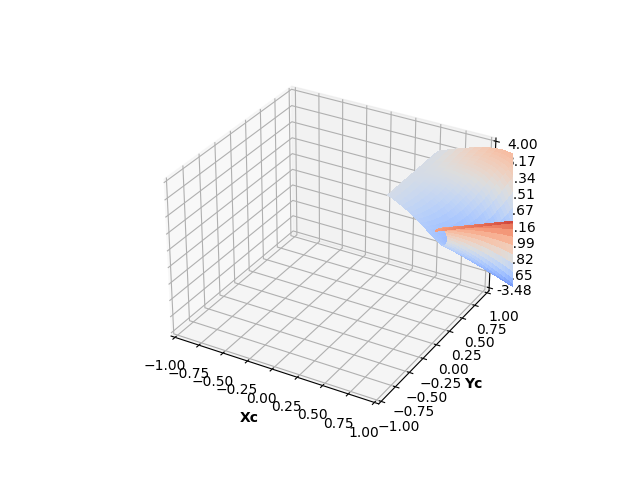
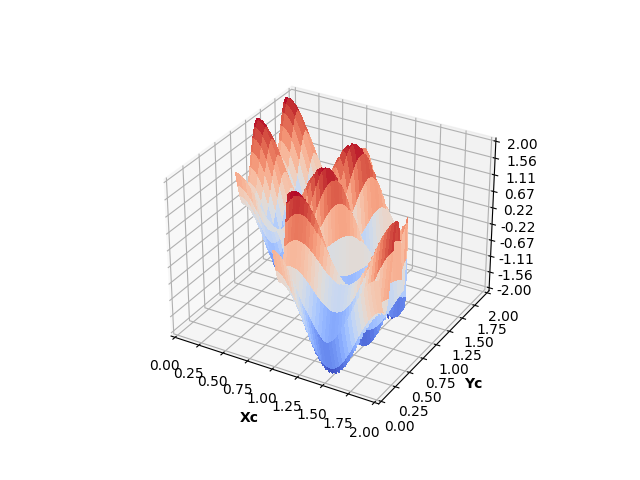
salam

Changed region(s): [[0.3438, 0.1875, 0.8438, 0.7812], [0.4688, 0.6562, 0.8125, 0.9062], [0.2188, 0.75, 0.4375, 0.875]]

diff --git a/Quater_of_Annulus/theplot.py b/Quater_of_Annulus/theplot.py
@@ -50,10 +50,10 @@ def tensor_to_matrix(Mat, nh, nm) :
 
 # Test 2
 
-Uex = lambda x, y : 1.-x**2-y**2
-dUx = lambda x, y : -2*x 
-dUy = lambda x, y : -2*y
-f   = lambda x, y : 0.*x+4.
+#Uex = lambda x, y : 1.-x**2-y**2
+#dUx = lambda x, y : -2*x 
+#dUy = lambda x, y : -2*y
+#f   = lambda x, y : 0.*x+4.
                    
 #Test 2 
 
@@ -64,13 +64,13 @@ f   = lambda x, y : 0.*x+4.
 F1= lambda x1, x2 : (x1+1.0)*cos(0.5*pi*x2)
 F2= lambda x1, x2 : (x1+1.0)*sin(0.5*pi*x2)
 
-Uex = lambda x, y : 2.*x*cos(pi*y) 
-dUx = lambda x, y : 2.*cos(pi*y)  
-dUy = lambda x, y : -2*pi*x*sin(pi*y)
-f   = lambda x, y : 2.*x*pi**2*cos(pi*y)
+#Uex = lambda x, y : 2.*x*cos(pi*y) 
+#dUx = lambda x, y : 2.*cos(pi*y)  
+#dUy = lambda x, y : -2*pi*x*sin(pi*y)
+#f   = lambda x, y : 2.*x*pi**2*cos(pi*y)
 
 # Test 3 Non homogenous Boundary Conditions
-'''
+
 
 kappa = 2
 
@@ -78,7 +78,7 @@ Uex   = lambda x,y :  cos(pi*kappa*x)- sin(2*kappa*pi*y)
 dUx   = lambda x,y : -pi*kappa*sin(pi*kappa*x)
 dUy   = lambda x,y : - 2*kappa*pi*cos(2*kappa*pi*y)
 f     = lambda x,y : (pi*kappa)**2*cos(pi*kappa*x)- (2*kappa*pi)**2*sin(2*kappa*pi*y)
-'''
+
 p1, p2                   = (2 , 2)
 ne1, ne2                = (32 , 32)
 a, b, c, d = 0., 1., 0., 1.
@@ -157,8 +157,8 @@ def plot_field_2D(knots1, knots2, degree1, degree2, u, nx = 101, ny=101):
     #ax.plot_surface(Xc,Yc, P[:,:,0].T, cmap ='viridis', edgecolor ='yellow')
 
     ax.plot_surface(Xc, Yc, P[:,:,0].T, cmap=cm.coolwarm, linewidth=0, antialiased=False)
-    ax.set_xlim(-1.0, 1.0)
-    ax.set_ylim(-1.0, 1.0)
+    ax.set_xlim(0.0, 2.0)
+    ax.set_ylim(0.0, 2.0)
     ax.zaxis.set_major_locator(LinearLocator(10))
     ax.zaxis.set_major_formatter(FormatStrFormatter('%.02f'))
     # ax.set_title('Approximate solution')
@@ -192,8 +192,8 @@ ax = plt.axes(projection = '3d')
     
 #ax.plot_surface(Xc,Yc, sol, cmap ='viridis', edgecolor ='yellow')
 ax.plot_surface(Xc, Yc, sol, cmap=cm.coolwarm, linewidth=0, antialiased=False)
-ax.set_xlim(-1.0, 1.0)
-ax.set_ylim(-1.0, 1.0)
+ax.set_xlim(0., 2.0)
+ax.set_ylim(0.0, 2.0)
 ax.zaxis.set_major_locator(LinearLocator(10))
 ax.zaxis.set_major_formatter(FormatStrFormatter('%.02f'))
 ax.set_xlabel('F1',  fontweight ='bold')
